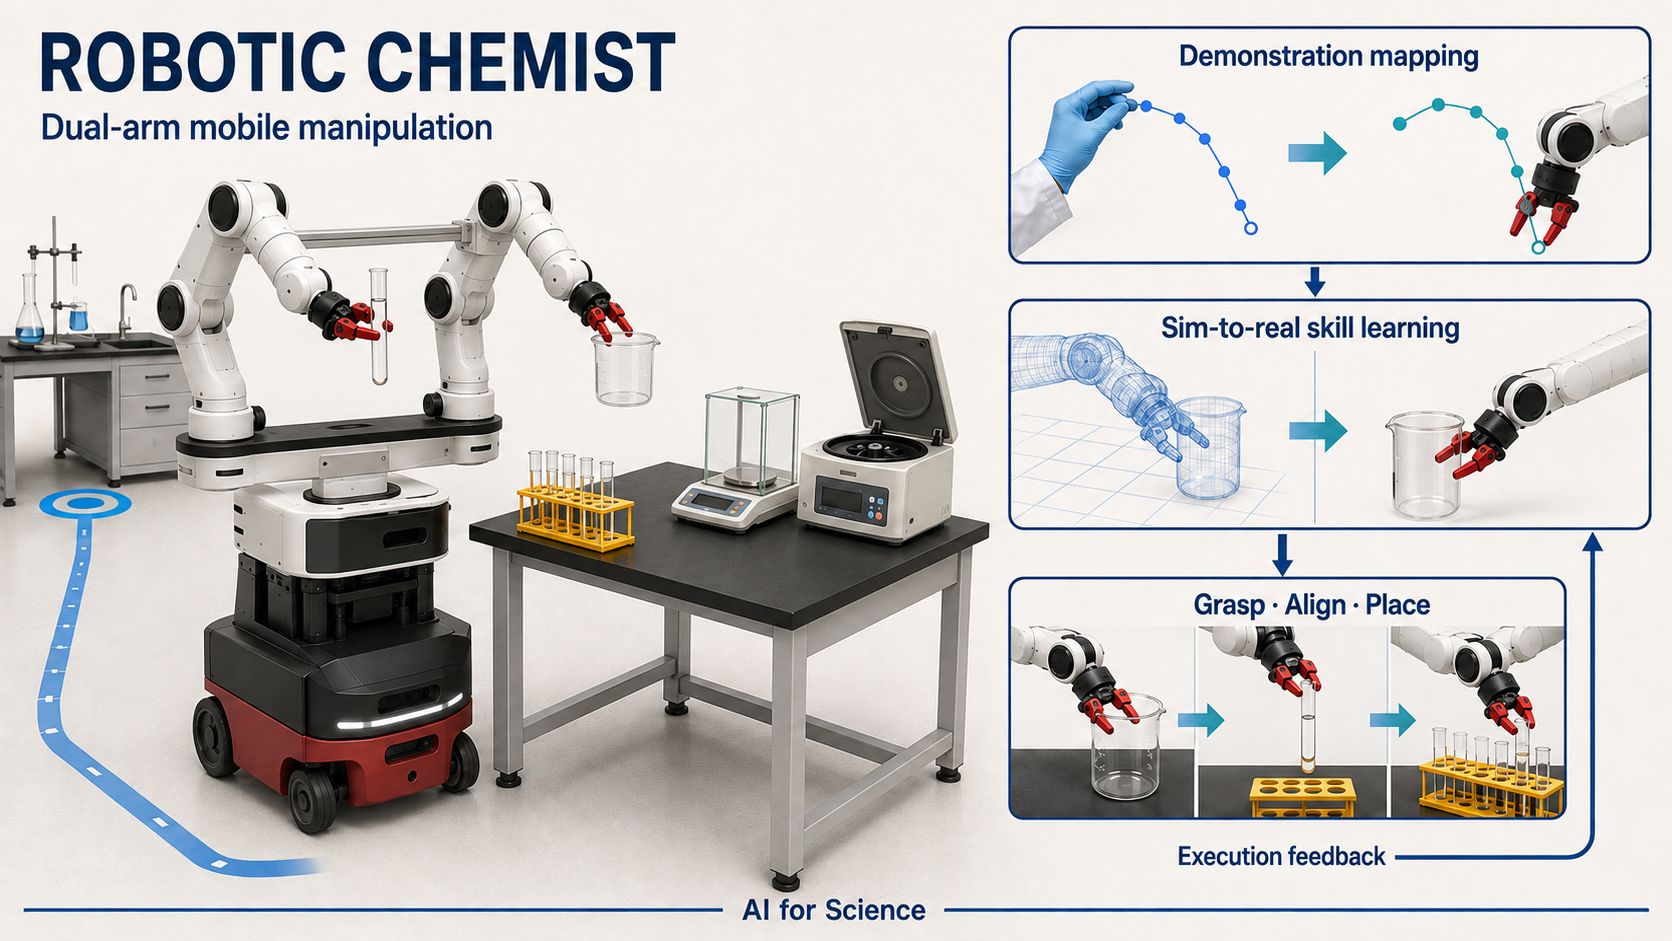
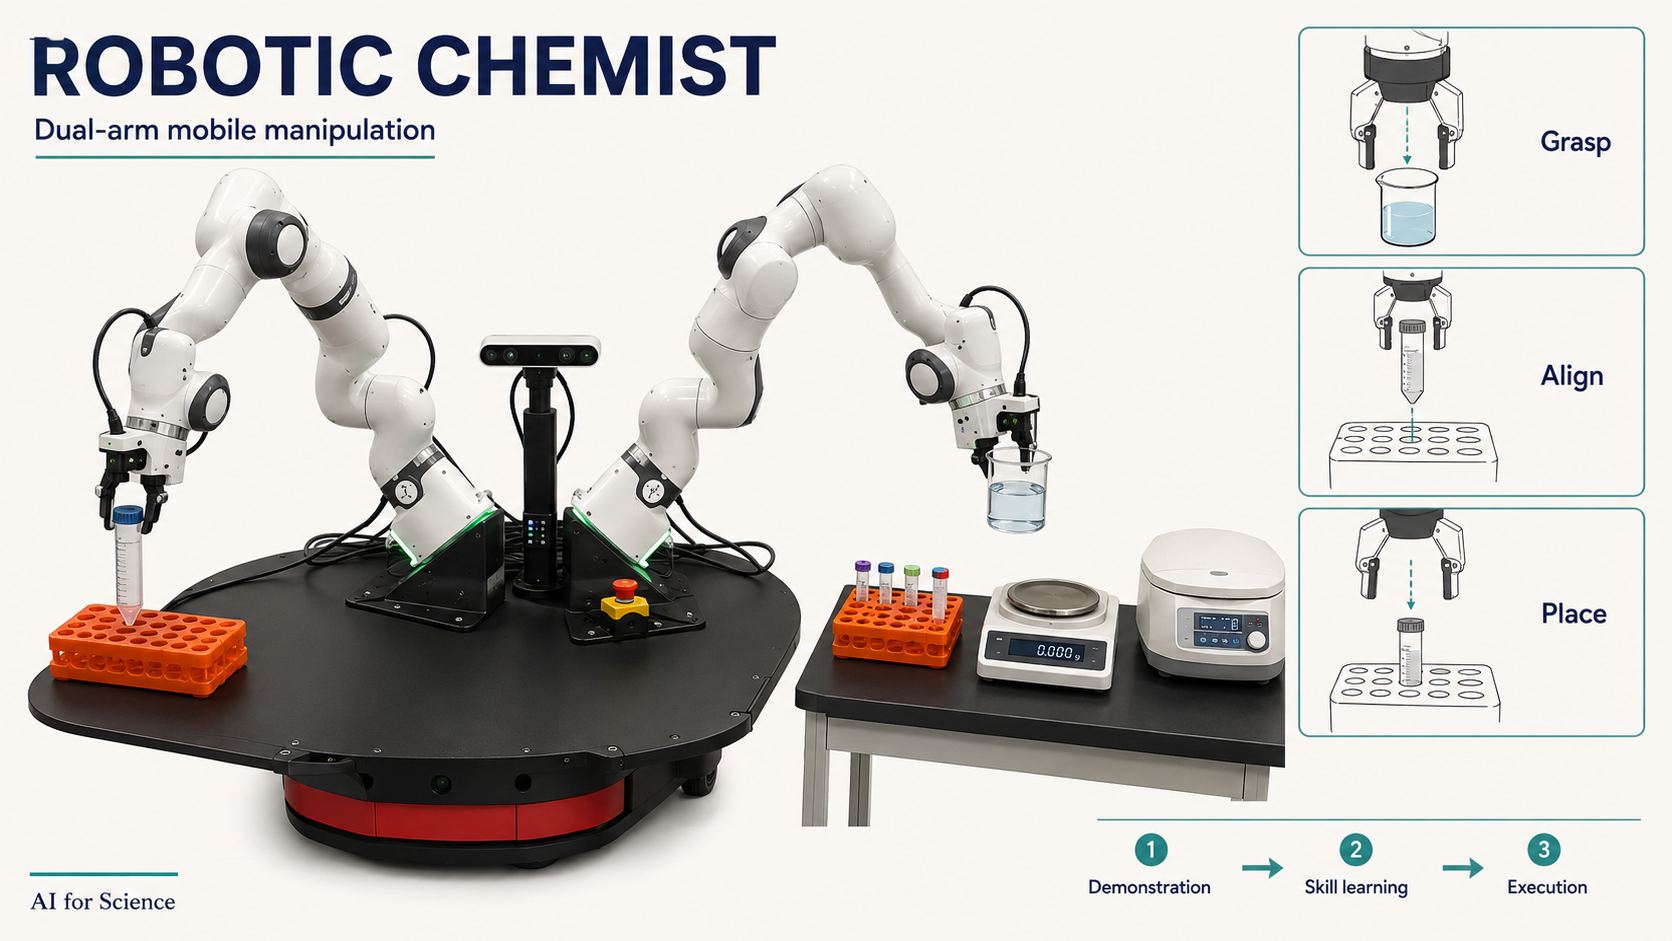
Redraw robotic chemist cover from real platform references

diff --git a/content/projects/robot-chemist/index.md b/content/projects/robot-chemist/index.md
@@ -14,8 +14,8 @@
   ],
   "image": {
     "filename": "featured.png",
-    "caption": "Concept illustration: demonstration mapping, sim-to-real skill learning, and laboratory manipulation on a dual-arm mobile platform.",
-    "alt_text": "Generated technical illustration of a dual-arm mobile robot, demonstration mapping, sim-to-real learning, grasping, alignment, placement, and execution feedback."
+    "caption": "Technical illustration based on the physical platform: two independently mounted, inclined arms on a shared mobile base for grasping, alignment, and placement.",
+    "alt_text": "Generated technical illustration: two independent arms on inclined mounts above a low mobile platform, a central camera post, and grasp-align-place task insets."
   },
   "project": {
     "collaboration": "AI for Science · Laboratory robotics",

diff --git a/content/projects/robot-chemist/index.zh.md b/content/projects/robot-chemist/index.zh.md
@@ -14,8 +14,8 @@
   ],
   "image": {
     "filename": "featured.png",
-    "caption": "双臂移动机器人化学家技术示意：示教映射、虚实技能学习与实验室操作。",
-    "alt_text": "生成的技术示意图，展示同一移动底盘上的双臂机器人，以及示教映射、虚实学习、抓取对齐放置与执行反馈。"
+    "caption": "依据实机结构绘制的机器人化学家技术示意：双臂独立斜置安装于同一移动平台，完成抓取、对齐与放置。",
+    "alt_text": "生成的技术示意图：两条独立机械臂斜装在同一低矮移动平台上，中间为相机立柱，右侧展示抓取、对齐与放置。"
   },
   "project": {
     "collaboration": "AI for Science · 实验室机器人",
